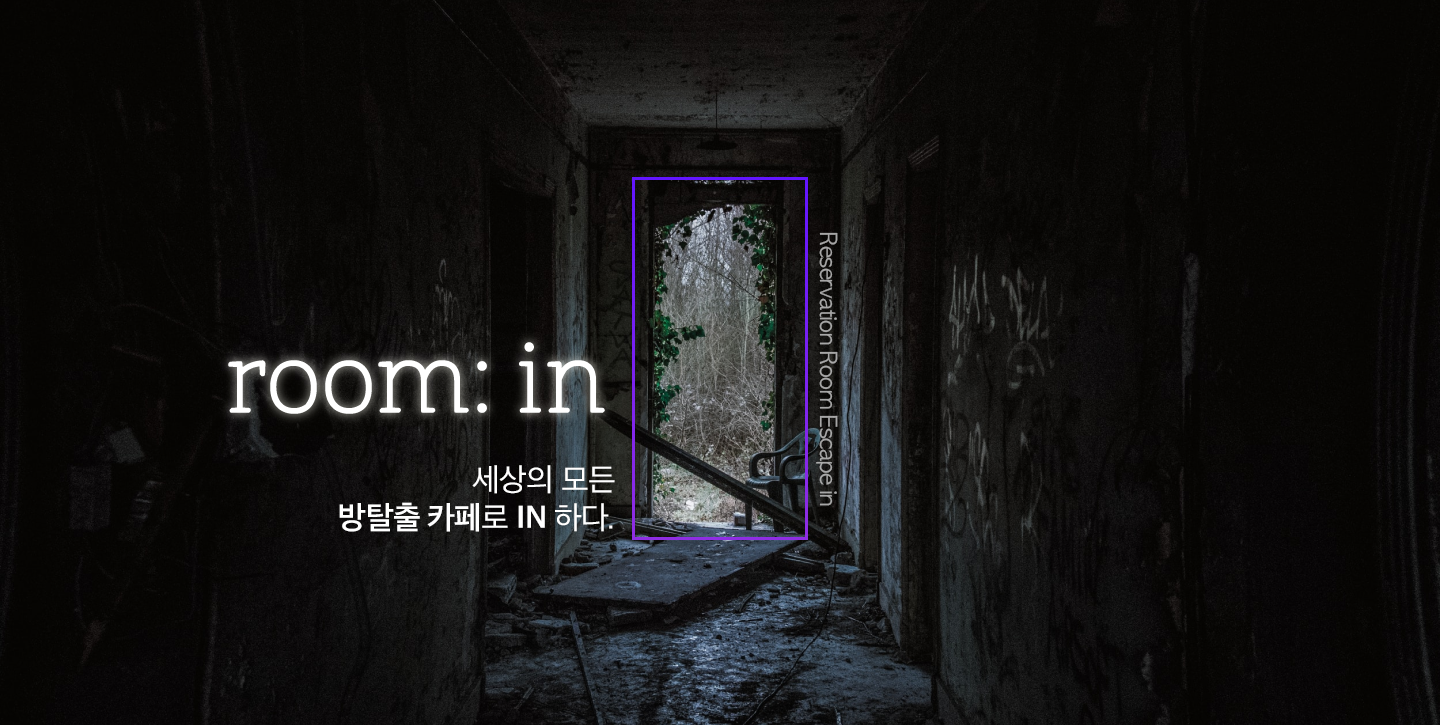
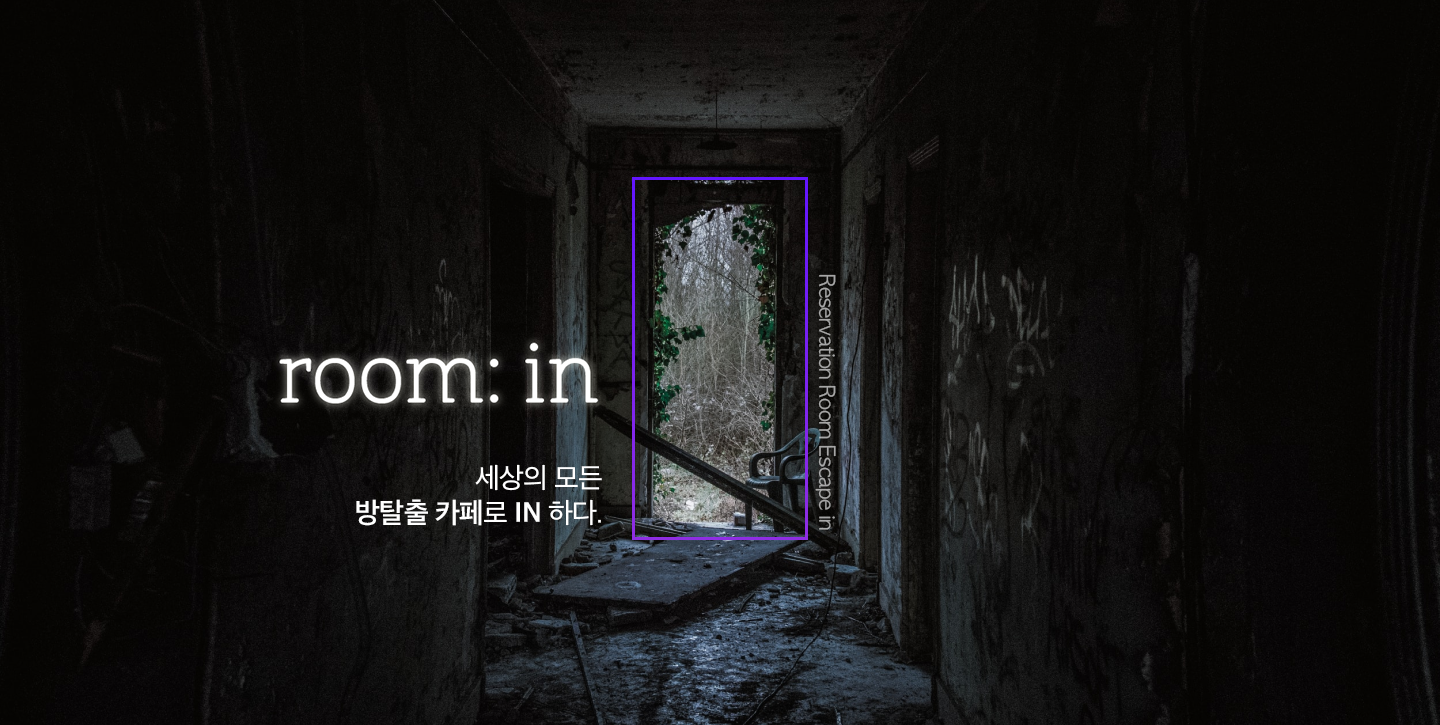
[수정] feature#365 회원가입 개인/기업 페이지 CSS 수정, 메인 이미지 변경

Changed region(s): [[0.1562, 0.4552, 0.4375, 0.5766], [0.2188, 0.6372, 0.4375, 0.7586], [0.5625, 0.3338, 0.5938, 0.7283]]

diff --git a/src/components/units/signup/choice/SignupChoice.styles.ts b/src/components/units/signup/choice/SignupChoice.styles.ts
@@ -3,7 +3,7 @@ import { breakPoints } from "../../../../commons/styles/media";
 
 export const Wrapper = styled.section`
   width: 100%;
-  height: 40em;
+  height: 35em;
   display: flex;
   flex-direction: column;
   justify-content: space-between;
